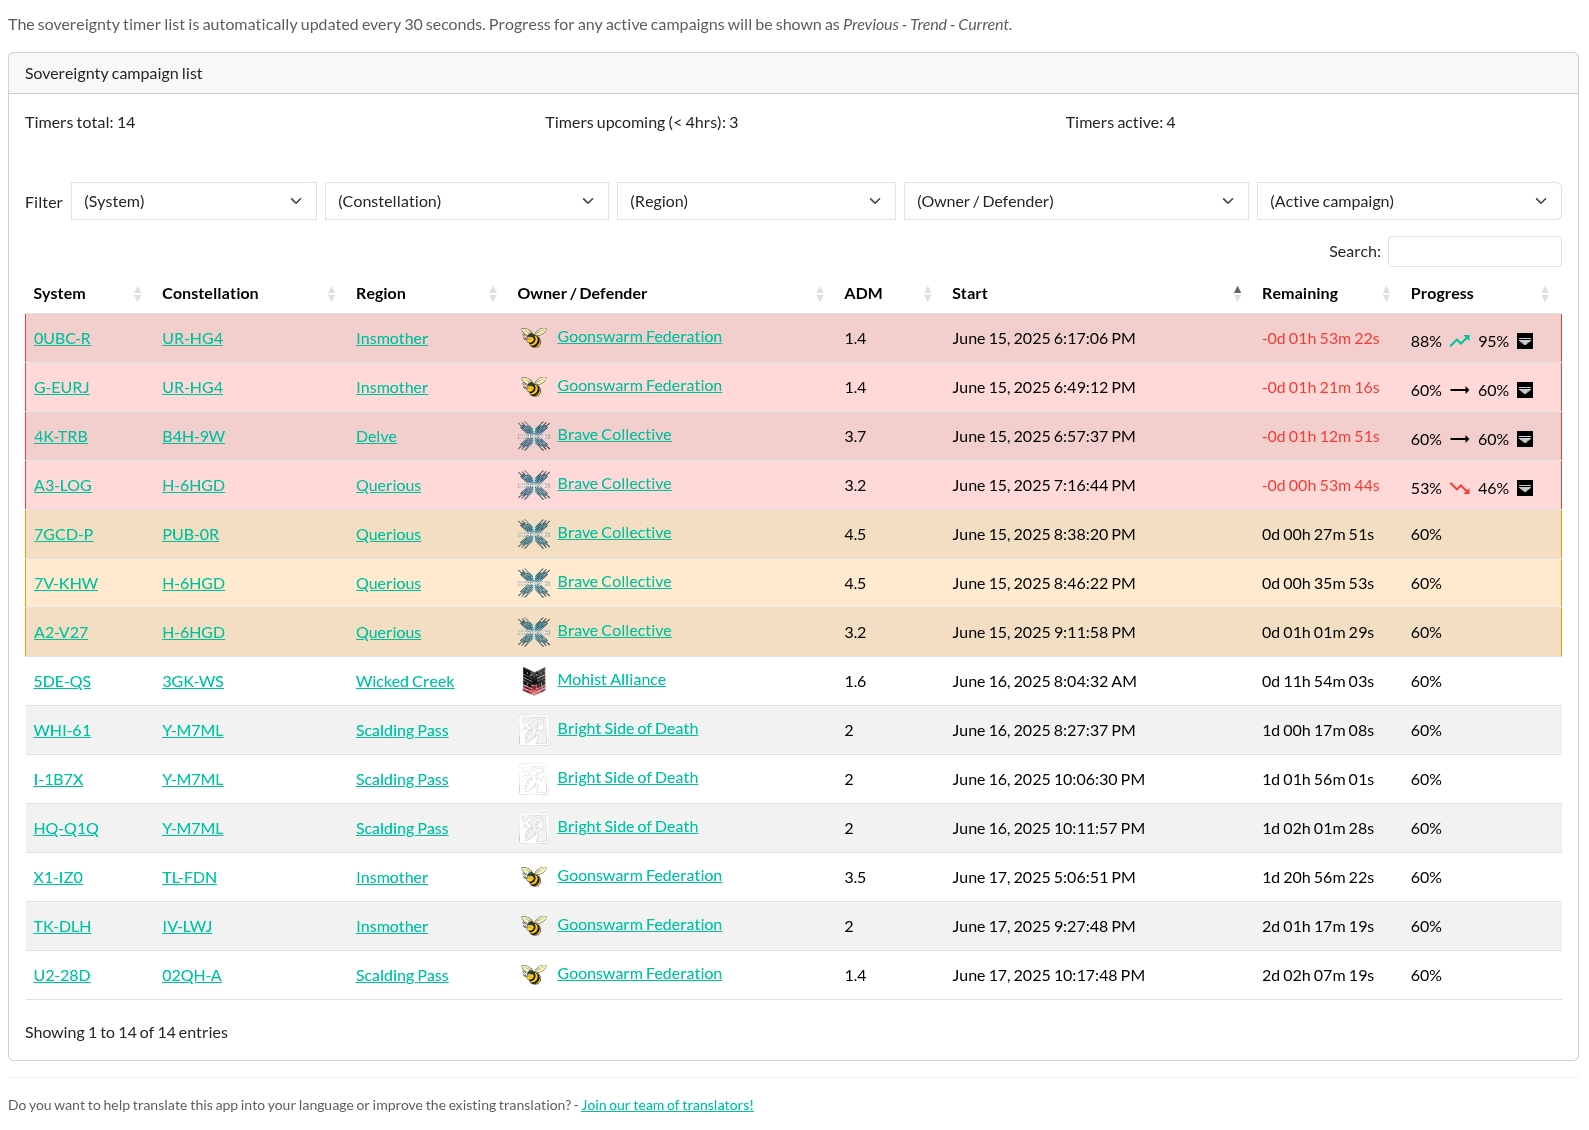
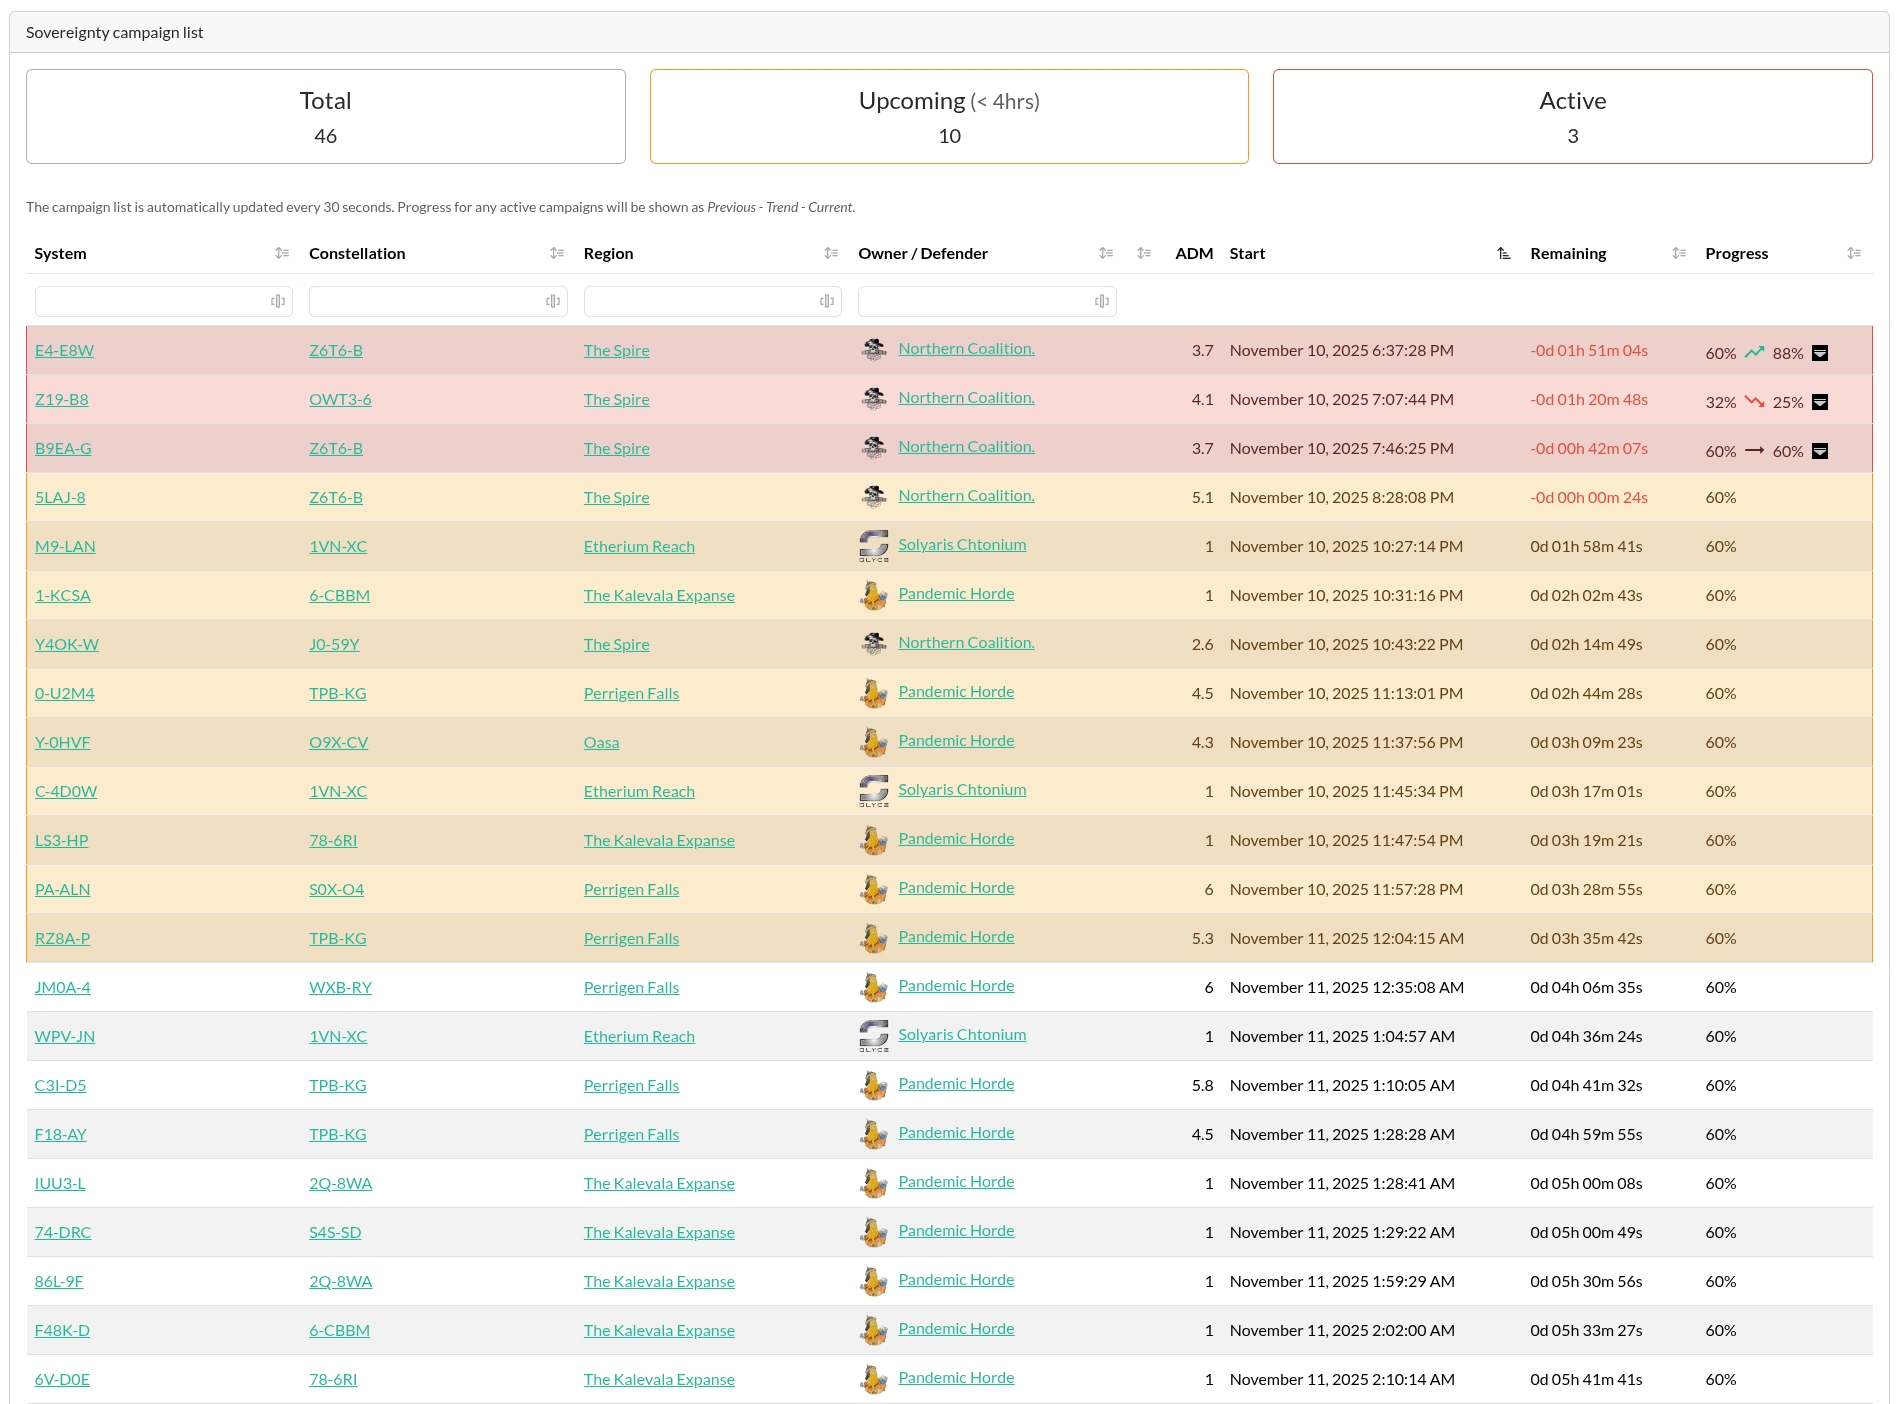
[CHANGE] Info panel styling improved

diff --git a/sovtimer/static/sovtimer/css/aa-sov-timer.min.css b/sovtimer/static/sovtimer/css/aa-sov-timer.min.css
@@ -1,2 +1,2 @@
-:root{--icon-font-family:"Material Icons"}@font-face{font-family:"Material Icons";font-style:normal;font-weight:400;src:url(../font/materialicons/v143/MaterialIcons-Regular.woff2)format("woff2")}@media all{.material-icons{direction:ltr;display:inline-block;font-family:var(--icon-font-family);font-size:24px;font-style:normal;font-weight:400;letter-spacing:normal;line-height:1;overflow-wrap:normal;text-transform:none;white-space:nowrap}.aa-sovtimer-timer-elapsed{color:var(--bs-danger)}.aa-sov-timer-zkb-icon img{position:relative;top:-2px}.aa-sovtimer-active-campaign{border-left:1px solid var(--bs-danger);border-right:1px solid var(--bs-danger)}.aa-sovtimer-active-campaign td{background-color:var(--bs-danger-bg-subtle);--bs-table-color-type:var(--bs-danger-text-emphasis)!important}.aa-sovtimer-upcoming-campaign{border-left:1px solid var(--bs-warning);border-right:1px solid var(--bs-warning)}.aa-sovtimer-upcoming-campaign td{background-color:var(--bs-warning-bg-subtle);--bs-table-color-type:var(--bs-warning-text-emphasis)!important}.aa-sovtimer-trend{cursor:default;display:inline-block;left:.35rem;margin-right:.75rem;position:relative;top:.35rem}.aa-sovtimer-trend-up{color:var(--bs-success)}.aa-sovtimer-trend-down{color:var(--bs-danger)}.aa-sovtimer .aa-sovtimer-campaigns td{vertical-align:middle}.aa-sovtimer .loading-spinner{width:2.5rem;height:2.5rem}table.dataTable span.dtcc div.dtcc-search>div select{background-color:var(--bs-body-bg);color:var(--bs-body-color);padding:.375rem}}
+:root{--icon-font-family:"Material Icons"}@font-face{font-family:"Material Icons";font-style:normal;font-weight:400;src:url(../font/materialicons/v143/MaterialIcons-Regular.woff2)format("woff2")}@media all{.material-icons{direction:ltr;display:inline-block;font-family:var(--icon-font-family);font-size:24px;font-style:normal;font-weight:400;letter-spacing:normal;line-height:1;overflow-wrap:normal;text-transform:none;white-space:nowrap}.aa-sovtimer-timer-elapsed{color:var(--bs-danger)}.aa-sov-timer-zkb-icon img{position:relative;top:-2px}.aa-sovtimer-active-campaign{border-left:1px solid var(--bs-danger);border-right:1px solid var(--bs-danger)}.aa-sovtimer-active-campaign td{background-color:var(--bs-danger-bg-subtle)!important;--bs-table-color-type:var(--bs-danger-text-emphasis)!important}.aa-sovtimer-upcoming-campaign{border-left:1px solid var(--bs-warning);border-right:1px solid var(--bs-warning)}.aa-sovtimer-upcoming-campaign td{background-color:var(--bs-warning-bg-subtle)!important;--bs-table-color-type:var(--bs-warning-text-emphasis)!important}.aa-sovtimer-trend{cursor:default;display:inline-block;left:.35rem;margin-right:.75rem;position:relative;top:.35rem}.aa-sovtimer-trend-up{color:var(--bs-success)}.aa-sovtimer-trend-down{color:var(--bs-danger)}.aa-sovtimer .aa-sovtimer-campaigns td{vertical-align:middle}.aa-sovtimer .loading-spinner{width:2.5rem;height:2.5rem}table.dataTable span.dtcc div.dtcc-search>div select{background-color:var(--bs-body-bg);color:var(--bs-body-color);padding:.375rem}}
 /*# sourceMappingURL=aa-sov-timer.min.css.map */

diff --git a/sovtimer/templates/sovtimer/partials/dashboard/table.html b/sovtimer/templates/sovtimer/partials/dashboard/table.html
@@ -9,9 +9,47 @@
 
     <div class="card-body">
         <div class="row">
-            <div class="col-sm-4">{% translate "Total campaigns:" %} <span class="aa-sovtimer-campaigns-total">0</span></div>
-            <div class="col-sm-4">{% translate "Upcoming campaigns (< 4hrs):" %} <span class="aa-sovtimer-campaigns-upcoming">0</span></div>
-            <div class="col-sm-4">{% translate "Active campaigns:" %} <span class="aa-sovtimer-campaigns-active">0</span></div>
+            <div class="col-md-4 mb-3">
+                <div class="card border-primary-subtle">
+                    <div class="card-body text-center">
+                        <div class="card-title text-center h4 mb-2">
+                            {% translate "Total" %}
+                        </div>
+
+                        <p class="card-text h5">
+                            <span class="aa-sovtimer-campaigns-total">0</span>
+                        </p>
+                    </div>
+                </div>
+            </div>
+
+            <div class="col-md-4 mb-3">
+                <div class="card border-warning">
+                    <div class="card-body text-center">
+                        <div class="card-title text-center h4 mb-2">
+                            {% blocktranslate %}Upcoming <small class="text-muted">(< 4hrs)</small>{% endblocktranslate %}
+                        </div>
+
+                        <p class="card-text h5">
+                            <span class="aa-sovtimer-campaigns-upcoming">0</span>
+                        </p>
+                    </div>
+                </div>
+            </div>
+
+            <div class="col-md-4 mb-3">
+                <div class="card border-danger">
+                    <div class="card-body text-center">
+                        <div class="card-title text-center h4 mb-2">
+                            {% translate "Active" %}
+                        </div>
+
+                        <p class="card-text h5">
+                            <span class="aa-sovtimer-campaigns-active">0</span>
+                        </p>
+                    </div>
+                </div>
+            </div>
         </div>
 
         <p class="small text-muted mt-3">

diff --git a/sovtimer/static/sovtimer/css/aa-sov-timer.css b/sovtimer/static/sovtimer/css/aa-sov-timer.css
@@ -41,7 +41,7 @@
     }
 
     .aa-sovtimer-active-campaign td {
-        background-color: var(--bs-danger-bg-subtle);
+        background-color: var(--bs-danger-bg-subtle) !important;
 
         --bs-table-color-type: var(--bs-danger-text-emphasis) !important;
     }
@@ -52,7 +52,7 @@
     }
 
     .aa-sovtimer-upcoming-campaign td {
-        background-color: var(--bs-warning-bg-subtle);
+        background-color: var(--bs-warning-bg-subtle) !important;
 
         --bs-table-color-type: var(--bs-warning-text-emphasis) !important;
     }

diff --git a/CHANGELOG.md b/CHANGELOG.md
@@ -45,6 +45,7 @@ Section Order:
 
 ### Changed
 
+- Info panel styling improved
 - Switched to DataTables 2
 
 ## [3.0.0-beta.2] - 2025-11-04
